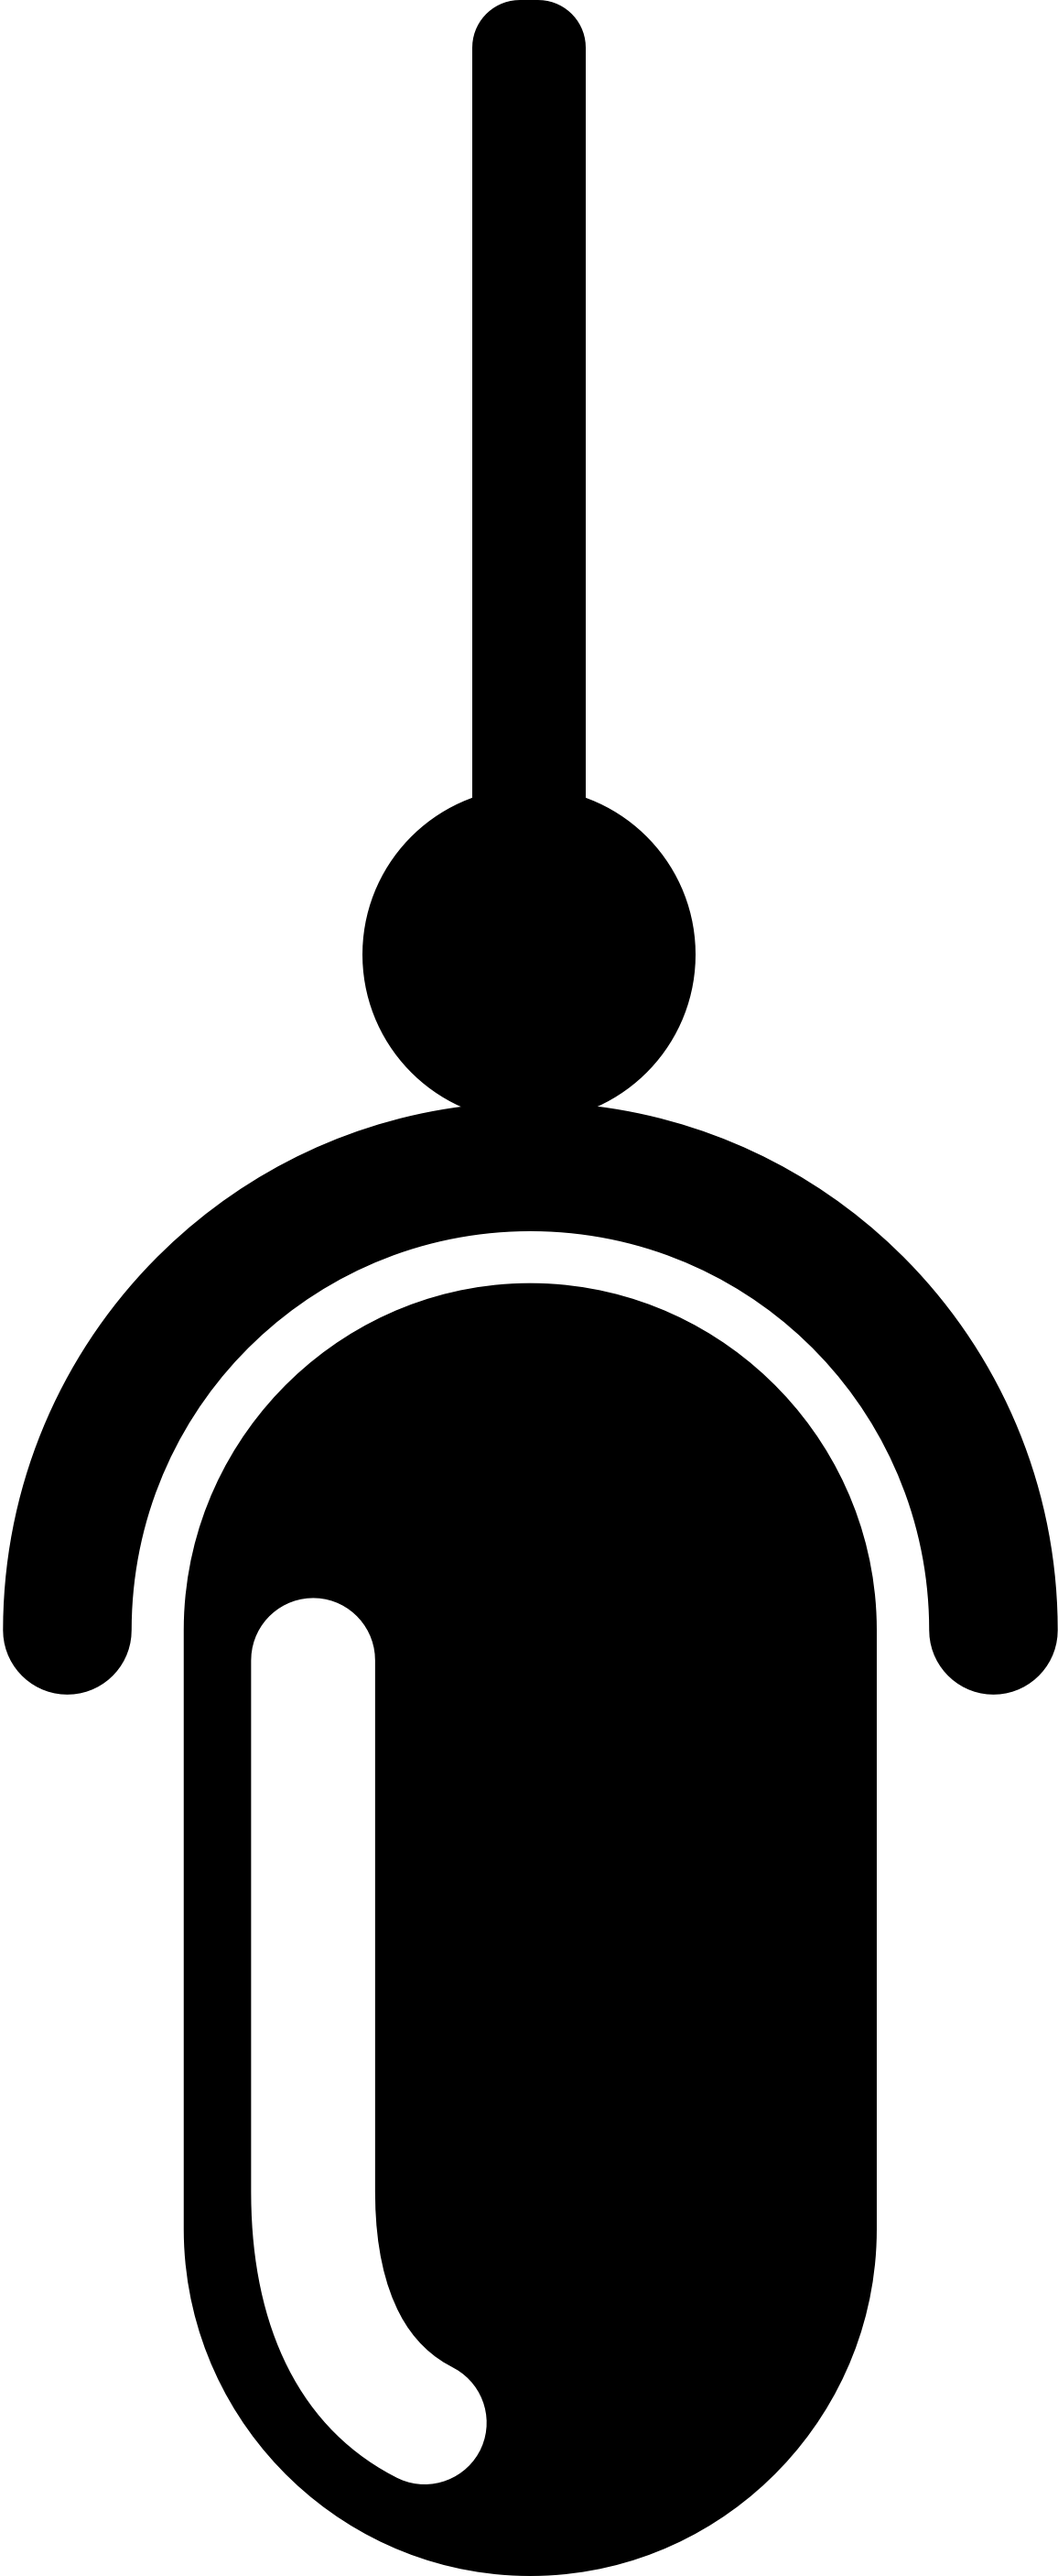
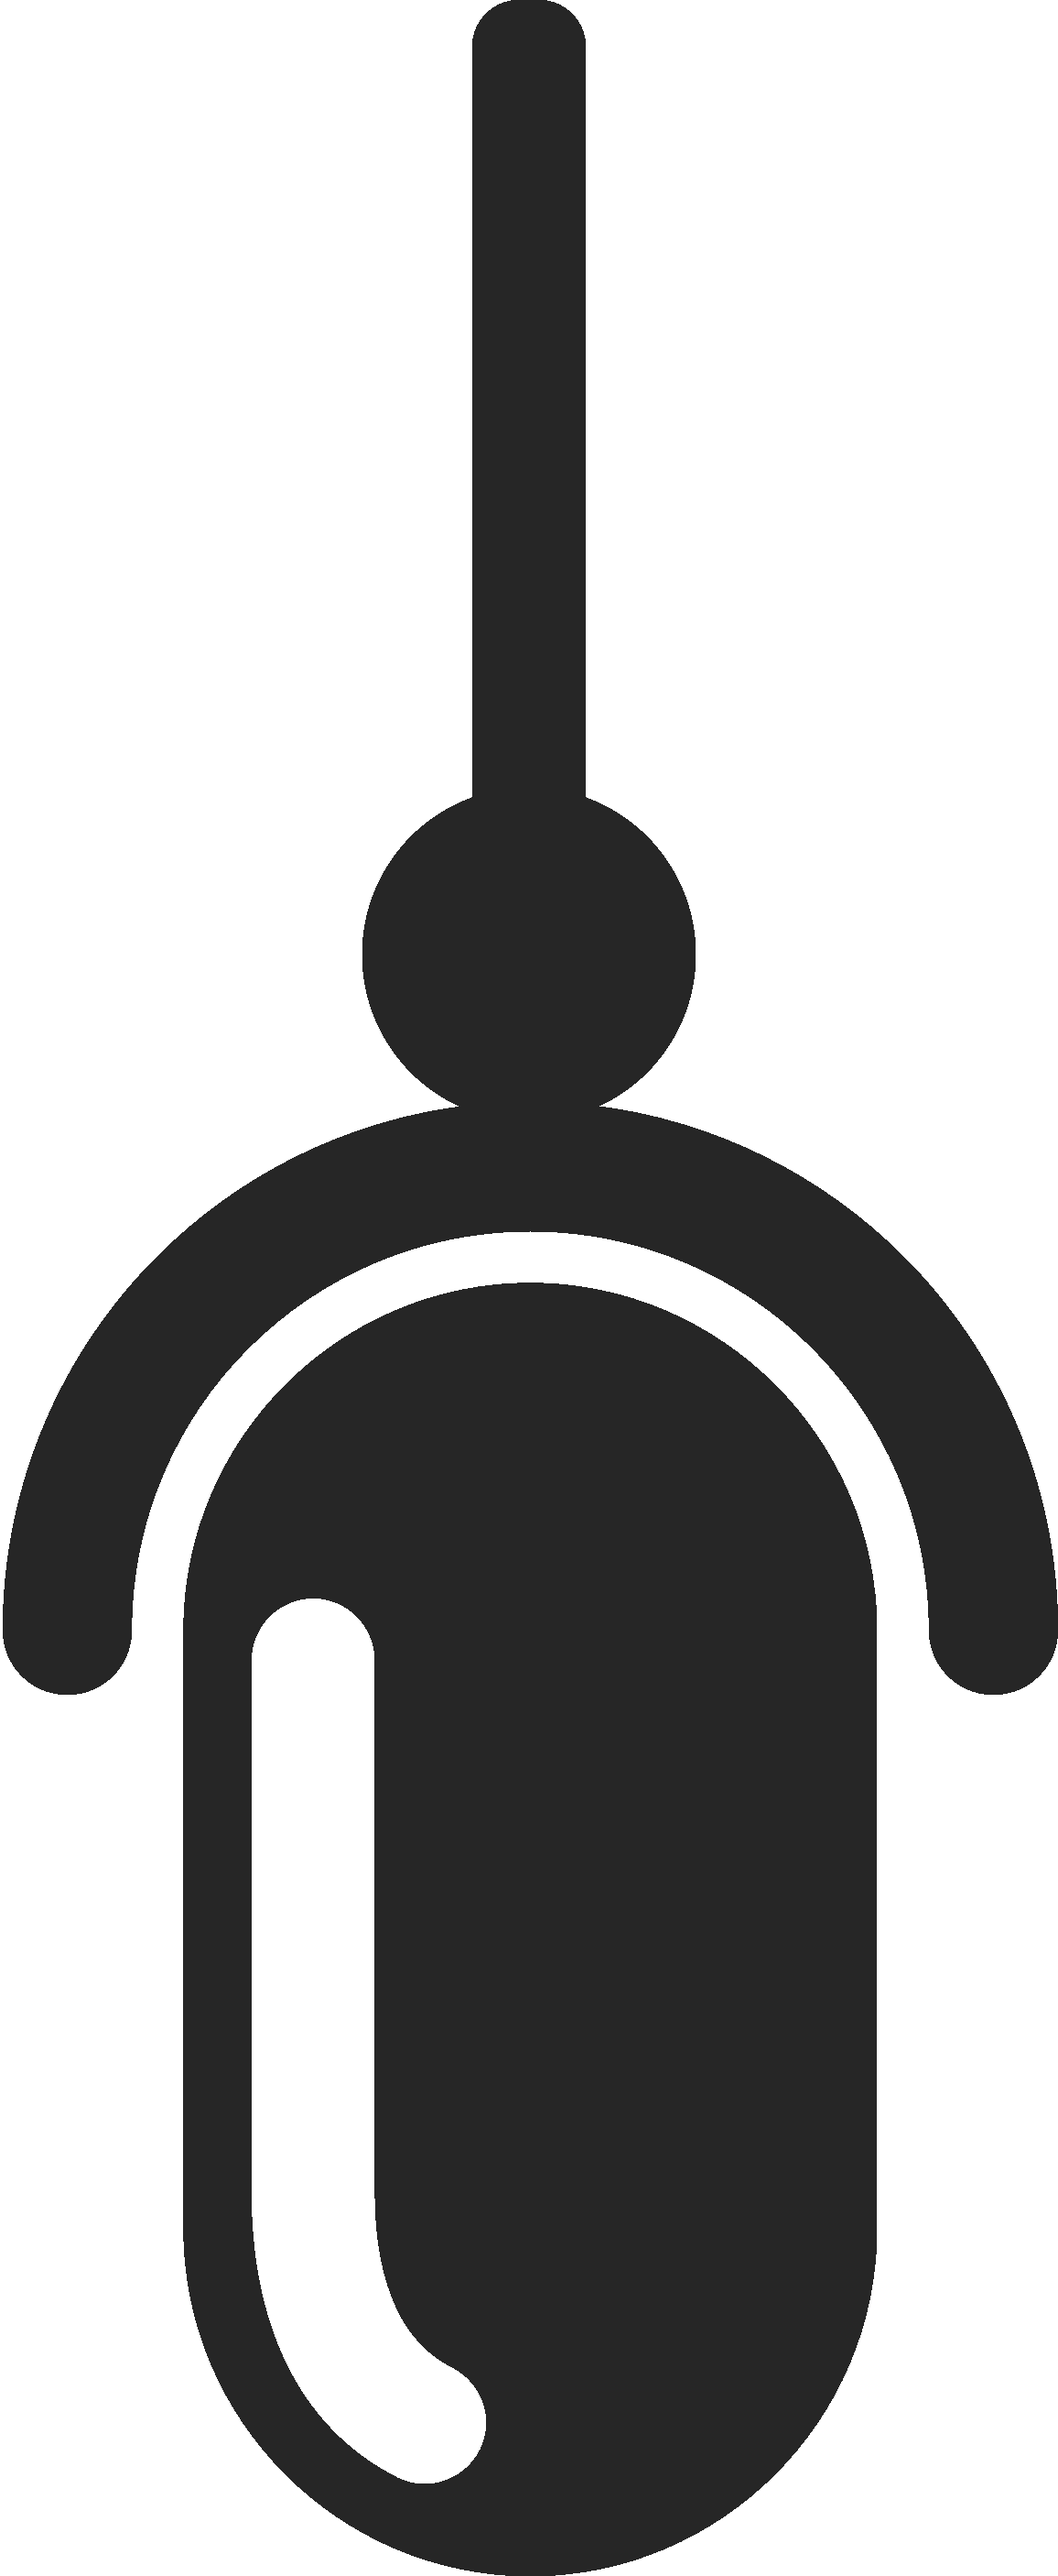
Apply style and colors

diff --git a/resources/stylesheets/css/main.css b/resources/stylesheets/css/main.css
@@ -1,2 +1,2 @@
-section.pinned-section .card,section.recent-section .recent-cards .card{border:1px solid gray;width:500px;box-sizing:border-box;padding:10px 40px 10px 40px;text-align:justify;position:relative}section.pinned-section .card .card-date,section.recent-section .recent-cards .card .card-date{text-align:center;font-size:1.2em;height:70px;width:70px;float:left;position:relative;right:10px;top:10px;font-weight:bold;line-height:22px}section.pinned-section .card .card-content,section.recent-section .recent-cards .card .card-content{font-size:1.1em;width:100%;line-height:28px}section.pinned-section .card .card-content:before,section.recent-section .recent-cards .card .card-content:before{content:'\A';white-space:pre}section.pinned-section .card .card-like,section.recent-section .recent-cards .card .card-like{background:#FFF;width:35px;height:35px;position:absolute;right:40px;top:85%;padding:10px;border:1px solid gray;border-radius:100%}section.pinned-section .card .card-like img,section.recent-section .recent-cards .card .card-like img{width:inherit;position:relative;left:2px}*{margin:0px;padding:0px}body{margin-left:100px;margin-right:100px;margin-top:5px}header{margin-top:20px}header h1.main-heading{display:inline-flex;height:70px;margin-bottom:30px}header h1.main-heading .logo{background:green;width:80px;height:80px;border-radius:100%;font-size:0.7em;text-align:center;line-height:80px;color:#FFF;position:relative;right:20px}header h1.main-heading .caption{line-height:70px}header h2.sub-heading{width:100%;display:inline-flex;margin-top:10px;height:50px}header h2.sub-heading .pp img{width:50px}header h2.sub-heading .name{font-size:1.4em;padding-left:10px;line-height:75px}section.pinned-section{margin-top:30px;margin-bottom:30px}section.pinned-section .heading{font-size:2em;font-weight:300;margin-bottom:10px}section.pinned-section .card{margin-bottom:20px}section.pinned-section .pinned-showmore{font-size:1.2em;color:gray}section.pinned-section .pinned-showmore a,section.pinned-section .pinned-showmore a:active,section.pinned-section .pinned-showmore a:hover,section.pinned-section .pinned-showmore a:visited{color:inherit}section.recent-section{margin-top:30px;margin-bottom:30px}section.recent-section .heading{font-size:2em;font-weight:300;margin-bottom:10px}section.recent-section .recent-cards{display:inline-flex}section.recent-section .recent-cards .card{margin-bottom:50px;margin-right:20px}
+@import url("https://fonts.googleapis.com/css?family=Source+Sans+Pro&display=swap|Josefin+Sans&display=swap");section.pinned-section .card,section.recent-section .recent-cards .card{width:500px;box-sizing:border-box;padding:10px 40px 10px 40px;text-align:justify;position:relative;background:#f3f4f3;box-shadow:0px 0px 29px -13px rgba(87,84,87,0.51);border-radius:12px;font-family:"Josefin Sans",sans-serif}section.pinned-section .card .card-date,section.recent-section .recent-cards .card .card-date{text-align:center;font-size:1.2em;height:70px;width:70px;float:left;position:relative;right:10px;top:10px;font-weight:bold;line-height:22px;color:#0c0d0c;border:1px solid gray}section.pinned-section .card .card-content,section.recent-section .recent-cards .card .card-content{font-size:1.1em;width:100%;line-height:22px;color:#000}section.pinned-section .card .card-content:before,section.recent-section .recent-cards .card .card-content:before{content:'\A';white-space:pre}section.pinned-section .card .card-like,section.recent-section .recent-cards .card .card-like{background:#FFF;width:35px;height:35px;position:absolute;right:40px;top:85%;padding:10px;border-radius:100%;box-shadow:0px 0px 50px -8px #949294;transition:box-shadow 0.8s}section.pinned-section .card .card-like img,section.recent-section .recent-cards .card .card-like img{width:inherit;position:relative;left:2px}section.pinned-section .card .card-like:hover,section.recent-section .recent-cards .card .card-like:hover{box-shadow:0px 0px 50px -8px #292829;cursor:pointer}*{margin:0px;padding:0px}body{background:#d1ddd8}.container{margin-left:100px;margin-right:100px;margin-top:5px;color:#0c0d0c;font-family:"Source Sans Pro","Impact",sans-serif;margin-bottom:50px}aside.mic{position:absolute;right:35px;top:55px}aside.mic img{height:400px}header{background:#262626;box-shadow:12px 20px 29px -13px rgba(87,84,87,0.51);box-shadow:0px 10px 22px -2px #7a7a7a;color:#f3f4f3;font-family:"Source Sans Pro","Impact",sans-serif;font-weight:400}header h1.main-heading{display:inline-flex;height:30px;margin-bottom:30px}header h1.main-heading .logo{background:green;width:80px;height:80px;border-radius:100%;font-size:0.7em;text-align:center;line-height:80px;color:#FFF;position:relative;right:20px}header h1.main-heading .caption{line-height:60px;margin-left:30px}.container h2.sub-heading{width:100%;display:inline-flex;margin-top:10px;height:50px}.container h2.sub-heading .pp img{width:50px;border-radius:100%}.container h2.sub-heading .name{font-size:1.4em;padding-left:10px;line-height:75px}section.pinned-section{margin-top:30px;margin-bottom:30px}section.pinned-section .heading{font-size:2em;font-weight:300;margin-bottom:10px}section.pinned-section .card{margin-bottom:20px}section.recent-section{margin-top:30px;margin-bottom:20px}section.recent-section .heading{font-size:2em;font-weight:300;margin-bottom:10px}section.recent-section .recent-cards{display:inline-flex}section.recent-section .recent-cards .card{margin-right:20px}.showmore{font-size:1.2em;color:gray}.showmore a,.showmore a:active,.showmore a:hover,.showmore a:visited{color:#0c0d0c;text-decoration:none;transition:color 0.5s}.showmore a:hover{color:#000}
 /*# sourceMappingURL=main.css.map */

diff --git a/resources/stylesheets/scss/main.scss b/resources/stylesheets/scss/main.scss
@@ -1,31 +1,57 @@
 // main scss //
 
 // Imports
+@import "color";
+@import "font";
 @import "card";
+
 
 // Reset
 *{
 	margin: 0px;
 	padding: 0px;
+
 }
 
 
-// Body
 body{
+	background: $body-bg;
+}
+
+.container{
 	margin-left: 100px;
 	margin-right: 100px;
 	margin-top: 5px;
+	color: $body-text;
+	font-family: $head-font;
+	margin-bottom: 50px;
+}
+
+// mic image
+aside.mic{
+	position: absolute;
+	right: 35px;
+	top: 55px;
+	img{
+		height: 400px;
+	}
+	// z-index: -1;
 }
 
 
 // Heading Section
 header{
 
-	margin-top: 20px;
+	background: $header-bg;
+	box-shadow: 12px 20px 29px -13px rgba(87,84,87,0.51);
+	box-shadow: 0px 10px 22px -2px rgba(122,122,122,1);
+	color: $card-bg;
+	font-family: $head-font;
+	font-weight: 400;
 
 	h1.main-heading{	
 		display: inline-flex;
-		height: 70px;
+		height: 30px;
 		margin-bottom: 30px;
 
 		.logo{
@@ -41,11 +67,16 @@ header{
 			right: 20px;
 		}
 		.caption{
-			line-height: 70px;
+			line-height: 60px;
+			margin-left: 30px;
 		}
 	}
 
 
+
+}
+
+.container{
 	h2.sub-heading{
 
 		width: 100%;
@@ -57,6 +88,7 @@ header{
 		.pp{
 			img{
 				width: 50px;
+			border-radius: 100%;
 			}
 		}
 
@@ -66,9 +98,7 @@ header{
 			line-height: 75px;
 		}
 	}
-
 }
-
 
 // Pinned Section
 section.pinned-section{
@@ -87,21 +117,13 @@ section.pinned-section{
 		margin-bottom: 20px;
 	}
 
-	.pinned-showmore{
-		font-size: 1.2em;
-		color: gray;
-
-		a, a:active, a:hover, a:visited{
-			color: inherit;
-		}
-
-	}
+	
 }
 
 // Recent Section
 section.recent-section{
 	margin-top: 30px;
-	margin-bottom: 30px;
+	margin-bottom: 20px;
 
 
 
@@ -118,7 +140,6 @@ section.recent-section{
 
 		.card{
 			@extend %card;
-			margin-bottom: 50px;
 			margin-right: 20px;
 		}
 	}
@@ -126,7 +147,21 @@ section.recent-section{
 	
 }
 
+.showmore{
+	font-size: 1.2em;
+	color: gray;
 
+	a, a:active, a:hover, a:visited{
+		color: $body-text;
+		text-decoration: none;
+		transition: color 0.5s;
+	}
+
+	a:hover{
+		color: darken($body-text, 10%);
+	}
+
+}
 
 
 

diff --git a/resources/stylesheets/scss/_card.scss b/resources/stylesheets/scss/_card.scss
@@ -1,12 +1,17 @@
 // Card Template
+// include $card-bg & $date-color
 
 %card{
-	border: 1px solid gray;
 	width: 500px;
 	box-sizing: border-box;
 	padding: 10px 40px 10px 40px;
 	text-align: justify;
 	position: relative;
+	background: $card-bg;
+	box-shadow: 0px 0px 29px -13px rgba(87,84,87,0.51);
+	border-radius: 12px;
+	font-family: $text-font;
+
 
 	.card-date{
 		text-align: center;
@@ -19,13 +24,16 @@
 		top: 10px;
 		font-weight: bold;
 		line-height: 22px;
+		color: $date-color;
+		border: 1px solid gray;
 	}
 
 
 	.card-content{
 		font-size: 1.1em;
 		width: 100%;
-		line-height: 28px;
+		line-height: 22px;
+		color: $card-text;
 		&:before{
 			content: '\A';
 			white-space: pre;
@@ -41,13 +49,20 @@
 		right: 40px;
 		top: 85%;
 		padding: 10px;
-		border: 1px solid gray;
 		border-radius: 100%;
+		box-shadow: 0px 0px 50px -8px rgba(148,146,148,1);
+		transition: box-shadow 0.8s;
+
 
 		img{
 			width: inherit;
 			position: relative;
 			left: 2px;
+		}
+
+		&:hover{
+			box-shadow: 0px 0px 50px -8px rgba(41,40,41,1);
+			cursor: pointer;
 		}
 	}
 }

diff --git a/index.html b/index.html
@@ -13,21 +13,29 @@
 
 </head>
 <body>
+
+	<aside class="mic">
+		<img src="./resources/images/mic.png">
+	</aside>
+
 	<!-- Heading Section -->
 	<header>
 		<h1 class="main-heading">
-			<div class="logo">LOGO</div>
+			<!-- <div class="logo">LOGO</div> -->
 			<div class="caption">Principal Talks</div>
 		</h1>
+	</header>
+
+	<!-- Heading Section End -->
+
+	<div class="container">
 		<h2 class="sub-heading">
 			<div class="pp">
 				<img src="./resources/images/avatar.png">
 			</div>
 			<div class="name">Jacob</div>
 		</h2>
-	</header>
-
-	<!-- Heading Section End -->
+	
 
 	<!-- Pinned Section-->
 
@@ -48,9 +56,7 @@
 			</div>
 		</div>
 
-		<small class="pinned-showmore">
-			<a href="#">show more<a>
-		</small>
+		
 
 	</section>
 
@@ -91,10 +97,18 @@
 					<img src="./resources/images/clap.svg">
 				</div>
 			</div>
+
 		</div>
 
 	</section>
 
+
+	<!-- show more -->
+	<small class="showmore">
+		<a href="#">show more<a>
+	</small>
+	</div>
+	
 	<!-- Recent Section End -->
 
 

diff --git a/resources/stylesheets/scss/_color.scss b/resources/stylesheets/scss/_color.scss
@@ -1,0 +1,6 @@
+$header-bg: darken(#3f403f, 10%); //heading background color
+$body-bg: lighten(#9fb8ad,17%); //body background color
+$card-bg: lighten(#e6e8e6, 5%); //card background color
+$card-text: #000000; //text color of card
+$body-text: darken(#3f403f, 20%);
+$date-color: $body-text; //color of date inside card

diff --git a/resources/stylesheets/scss/_font.scss b/resources/stylesheets/scss/_font.scss
@@ -1,0 +1,4 @@
+@import url('https://fonts.googleapis.com/css?family=Source+Sans+Pro&display=swap|Josefin+Sans&display=swap');
+
+$head-font : 'Source Sans Pro', 'Impact', sans-serif;
+$text-font : 'Josefin Sans', sans-serif;
